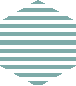
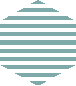
Texture improvements and grid

diff --git a/src/sabkra/src/scene.py b/src/sabkra/src/scene.py
@@ -1,6 +1,6 @@
 import os
 import pygame
-from pygame._sdl2 import Renderer, Window, Texture
+from pygame._sdl2 import Renderer, Texture, Window
 
 from .camera import Camera
 from .world import init_world
@@ -53,6 +53,7 @@ class Scene:
                            .format(feature.replace("FEATURE_", "").lower()))
         self.add_image("selected", "./src/sabkra/assets/selected.png")
         self.add_image("neighbour", "./src/sabkra/assets/neighbour.png")
+        self.add_image("grid", "./src/sabkra/assets/grid.png")
         self.add_image("MOUNTAIN", "./src/sabkra/assets/mountain.png")
         self.add_image("HILL", "./src/sabkra/assets/hill.png")
         self.add_image("river_nw", "./src/sabkra/assets/rivers/nw.png")
@@ -134,7 +135,13 @@ class Scene:
         # Draw terrain
         for tile in self.world.tiles():
             self.get_sprite(tile).render()
-        self.texture = Texture.from_surface(self.renderer, self.canvas)
+        self.texture = Texture(
+            self.renderer,
+            (self.canvas.get_width(), self.canvas.get_height()),
+            streaming=True,
+            # scale_quality=1,
+        )
+        self.texture.update(self.canvas)
         self.texture.blend_mode = 1
 
     def draw(self):

diff --git a/src/sabkra/src/sprite.py b/src/sabkra/src/sprite.py
@@ -34,6 +34,8 @@ class Sprite:
         # Draw feature
         if feature := self.get_image(self.tile.get_feature()):
             self.scene.canvas.blit(feature, self.pos)
+        # Draw grid
+        self.scene.canvas.blit(self.get_image("grid"), self.pos)
         # Draw river
         for river in self.tile.get_river_state():
             self.scene.canvas.blit(self.get_image(river), self.pos)

diff --git a/src/sabkra/src/world.py b/src/sabkra/src/world.py
@@ -105,7 +105,6 @@ class World:
         return self.tilemap[row][col]
 
     def init(self, f):
-
         # Load tiles
         self.tilemap = []
         for row in range(self.height):
@@ -113,5 +112,3 @@ class World:
             for col in range(self.width):
                 tile = Tile.from_file(self, row, col, f)
                 self.tilemap[row].append(tile)
-
-        #
